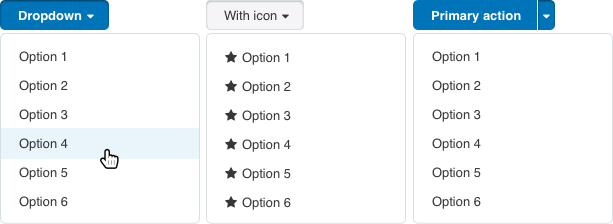
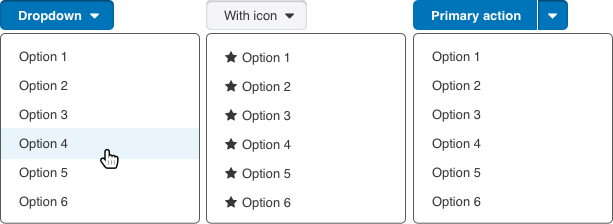
wip: second changes from Armando's feedback

Changed region(s): [[0.0, 0.0, 1.0, 1.0], [0.4649, 0.0312, 0.4959, 0.0938]]

diff --git a/index.html b/index.html
@@ -273,10 +273,10 @@
 
 			<h4>Dropdown buttons</h4>
 			<div style="margin: 40px 0px">
-				  <span class="button primary-button">Dropdown<i class="fa fa-caret-down fa-fw" aria-hidden="true" style="margin-left: 5px; margin-right: 0px"></i></span>
-				  <span class="button neutral-button">With Icons<i class="fa fa-caret-down fa-fw" aria-hidden="true" style="margin-left: 5px; margin-right: 0px"></i></span>
+				  <span class="button primary-button">Dropdown<i class="fa fa-caret-down fa-fw" aria-hidden="true" style="margin-left: 5px; margin-right: 0px; font-size: 16px; vertical-align: middle"></i></span>
+				  <span class="button neutral-button">With Icons<i class="fa fa-caret-down fa-fw" aria-hidden="true" style="margin-left: 5px; margin-right: 0px; font-size: 16px; vertical-align: middle"></i></span>
 					<span class="primary-action primary-button">Primary action</span>
-					<span class="secondary-action primary-button"><i class="fa fa-caret-down fa-fw" aria-hidden="true"></i></span><br />
+					<span class="secondary-action primary-button"><i class="fa fa-caret-down fa-fw" aria-hidden="true" style="font-size: 16px; vertical-align: middle"></i></span><br />
 				<img src="imgs/dropdown-buttons.png" style="margin-top: 40px"/>
 			</div>
 
@@ -290,6 +290,7 @@
 				<span><b>Margin:</b> 15px 5px</span><br />
 				<span><b>Border radius:</b> 5px</span><br />
 				<span><b>Icon:</b> caret-down</span><br />
+				<span><b>Icon size:</b> 16px</span><br />
 				<span><b>Margin left (Icon):</b> 5px</span><br />
 				<span><b>Margin (between button and dropdown):</b> 3px</span><br />
 				<span><b>Background color (hover):</b> Cloud</span>
@@ -316,7 +317,7 @@
 				</label>
 				<label class="container" style="color: #D7DFE1; pointer-events: none">Disabled
 				  <input type="radio" name="radio">
-				  <span class="checkmark" style="background-color: #D7DFE1;  border-color: #D7DFE1"></span>
+				  <span class="checkmark" style="background-color: #D7DFE1;  border-color: #595959"></span>
 				</label>
 			</div>
 
@@ -348,7 +349,7 @@
 				</label>
 				<label class="containerC" style="color: #D7DFE1; pointer-events: none">Disabled
 				  <input type="checkbox">
-				  <span class="checkmarkC" style="background-color: #D7DFE1; border-color: #D7DFE1"></span>
+				  <span class="checkmarkC" style="background-color: #D7DFE1; border-color: #595959"></span>
 				</label>
 			</div>
 
@@ -385,7 +386,7 @@
 				<span class="switch-label" style="color: #D7DFE1; pointer-events: none">Disabled</span>
 				<label class="switch" style="pointer-events: none">
 				  <input type="checkbox">
-				  <span class="dslider round" style="color: #D7DFE1; border-color: #D7DFE1"></span>
+				  <span class="dslider round" style="color: #D7DFE1; border-color: #595959"></span>
 				</label>
 			</div>
 
@@ -407,13 +408,15 @@
 
 			<h4>Icon buttons</h4>
 			<div style="margin: 40px 0px">
-				<div class="ttooltip"><i class="fa fa-star fa-fw" aria-hidden="true" style="color: #373737; margin-right: 10px; border: 1px solid #D7DFE1; padding: 9px; border-radius: 5px; cursor: pointer"></i>
+				<div class="ttooltip"><i class="fa fa-star fa-fw" aria-hidden="true" style="color: #373737; background-color: #F5F5F7; margin-right: 10px; border: 1px solid #D7DFE1; padding: 6px; border-radius: 5px; cursor: pointer; font-size: 16px; vertical-align: middle"></i>
 					<span class="tooltiptext">Tooltip text</span>
 				</div>
-				<div class="ttooltip"><i class="fa fa-envelope fa-fw" aria-hidden="true" style="color: #373737; margin-right: 10px; border: 1px solid #D7DFE1; padding: 9px; border-radius: 5px; cursor: pointer"></i>
+				<div class="ttooltip"><i class="fa fa-envelope fa-fw" aria-hidden="true" style="color: #373737; background-color: #F5F5F7; margin-right: 10px; border: 1px solid #D7DFE1; padding: 6px; border-radius: 5px; cursor: pointer; font-size: 16px; vertical-align: middle"></i>
 					<span class="tooltiptext">Tooltip text</span>
 				</div>
-				<i class="fa fa-trash fa-fw" aria-hidden="true" style="color: #D7DFE1; border: 1px solid #D7DFE1; padding: 9px; border-radius: 5px"></i><br />
+				<div class="ttooltip"><i class="fa fa-trash fa-fw" aria-hidden="true" style="color: #373737; background-color: #F5F5F7; margin-right: 10px; border: 1px solid #D7DFE1; padding: 6px; border-radius: 5px; cursor: pointer; font-size: 16px; vertical-align: middle"></i>
+					<span class="tooltiptext">Tooltip text</span>
+				</div><br />
 				<img src="imgs/icon-btn-group.png" style="margin-top: 20px"/><br />
 				<img src="imgs/dropdown-icon-button.png" style="margin-top: 20px"/>
 			</div>
@@ -422,7 +425,7 @@
 			They will be always accompanied by tooltips for novice users. Also they can display more options (similar to dropdown buttons).</p>
 
 			<div class="measurements-box"><p style="padding-bottom: 20px;">
-				<span><b>Width:</b> 30px</span><br />
+				<span><b>Width:</b> 34px</span><br />
 				<span><b>Height:</b> 30px</span><br />
 				<span><b>Font size:</b> 13px</span><br />
 				<span><b>Color:</b> Text</span><br />
@@ -445,9 +448,9 @@
 
 			<h4>Buttons with icons</h4>
 			<div style="margin: 40px 0px">
-				<span class="button primary-button"><i class="fa fa-star fa-fw" aria-hidden="true"></i>Button</span>
-				<span class="button neutral-button"><i class="fa fa-star fa-fw" aria-hidden="true"></i>Button</span>
-				<span class="button destructive-button"><i class="fa fa-star fa-fw" aria-hidden="true"></i>Button</span>
+				<span class="button primary-button"><i class="fa fa-star fa-fw" aria-hidden="true" style="font-size: 16px; vertical-align: middle"></i>Button</span>
+				<span class="button neutral-button"><i class="fa fa-star fa-fw" aria-hidden="true" style="font-size: 16px; vertical-align: middle"></i>Button</span>
+				<span class="button destructive-button"><i class="fa fa-star fa-fw" aria-hidden="true" style="font-size: 16px; vertical-align: middle"></i>Button</span>
 			</div>
 
 			<p><i>Buttons with icons</i> are going to be used to emphasize the action it represents.</p>
@@ -494,9 +497,9 @@
 			<h4>Outline Buttons</h4>
 			<div style="margin: 40px 0px">
 				<span class="button-outline primary-button-outline">Button</span>
-				<span class="button-outline primary-button-outline"><i class="fa fa-star fa-fw" aria-hidden="true"></i>Button</span>
+				<span class="button-outline primary-button-outline"><i class="fa fa-star fa-fw" aria-hidden="true" style="font-size: 16px; vertical-align: middle"></i>Button</span>
 				<span class="button-outline destructive-button-outline">Button</span>
-				<span class="button-outline destructive-button-outline"><i class="fa fa-star fa-fw" aria-hidden="true"></i>Button</span>
+				<span class="button-outline destructive-button-outline"><i class="fa fa-star fa-fw" aria-hidden="true" style="font-size: 16px; vertical-align: middle"></i>Button</span>
 			</div>
 
 			<p><i>Outline buttons</i> are built only for corner cases. Icons are also allowed in this type of buttons.<br />
@@ -513,7 +516,7 @@
 			<div class="use-cases">
 				<h4>Use Cases</h4>
 				<ul>
-					<li>Corner cases (attachment inout).</li>
+					<li>Corner cases (attachment input).</li>
 				</ul>
 			</div>
 
@@ -547,15 +550,15 @@
 			<div style="margin: 40px 0px">
 				<span class="button primary-button">Active</span>
 				<span class="button primary-button-disabled">Disable</span>
-				<span class="button primary-button"><i class="fa fa-spinner fa-spin fa-fw" aria-hidden="true"></i>Loading</span>
+				<span class="button primary-button"><i class="fa fa-spinner fa-spin fa-fw" aria-hidden="true" style="font-size: 16px; vertical-align: middle"></i>Loading</span>
 				<span class="button neutral-button">Active</span>
 				<span class="button neutral-button-disabled">Disable</span>
-				<span class="button neutral-button"><i class="fa fa-spinner fa-spin fa-fw" aria-hidden="true"></i>Loading</span>
+				<span class="button neutral-button"><i class="fa fa-spinner fa-spin fa-fw" aria-hidden="true" style="font-size: 16px; vertical-align: middle"></i>Loading</span>
 				<span class="button-link">Active</span>
 				<span class="button-link-disabled">Disable</span>
 				<span class="button destructive-button">Active</span>
 				<span class="button destructive-button-disabled">Disable</span>
-				<span class="button destructive-button"><i class="fa fa-spinner fa-spin fa-fw" aria-hidden="true"></i>Loading</span>
+				<span class="button destructive-button"><i class="fa fa-spinner fa-spin fa-fw" aria-hidden="true" style="font-size: 16px; vertical-align: middle"></i>Loading</span>
 		</div>
 
 		<p>There are three posible states: active, disable and loading.<br />
@@ -615,7 +618,7 @@
 			<h4>Number input</h4>
 			<div style="margin: 20px 0px; position: relative; z-index: 2">
 				<input type="text">
-				<i class="fa fa-sort fa-fw icon-inside-input" aria-hidden="true"></i>
+				<i class="fa fa-sort fa-fw icon-inside-input" aria-hidden="true" style="font-size: 16px; top: 9px"></i>
 			</div>
 
 			<div class="measurements-box"><p style="padding-bottom: 20px;">
@@ -637,7 +640,7 @@
 			<h4>Date input</h4>
 			<div style="margin: 20px 0px; position: relative; z-index: 2">
 				<input type="text" placeholder="dd/mm/yyyy">
-				<i class="fa fa-calendar fa-fw icon-inside-input" aria-hidden="true"></i>
+				<i class="fa fa-calendar fa-fw icon-inside-input" aria-hidden="true" style="font-size: 16px; top: 8px"></i>
 			</div>
 
 			<div class="measurements-box"><p style="padding-bottom: 20px;">
@@ -659,7 +662,7 @@
 			<h4>Time input</h4>
 			<div style="margin: 20px 0px; position: relative; z-index: 2">
 				<input type="text" placeholder="--:--">
-				<i class="fa fa-clock-o fa-fw icon-inside-input" aria-hidden="true"></i>
+				<i class="fa fa-clock-o fa-fw icon-inside-input" aria-hidden="true" style="font-size: 16px; top: 9px"></i>
 			</div>
 
 			<div class="measurements-box"><p style="padding-bottom: 20px;">
@@ -681,7 +684,7 @@
 			<h4>Password input</h4>
 			<div style="margin: 20px 0px; position: relative; z-index: 2">
 				<input type="password">
-				<i class="fa fa-eye fa-fw icon-inside-input" aria-hidden="true"></i>
+				<i class="fa fa-eye fa-fw icon-inside-input" aria-hidden="true" style="font-size: 16px; top: 9px"></i>
 			</div>
 
 			<p>The eye icon allow the user to check if the password is correct by showing the caracters.</p>
@@ -761,7 +764,7 @@
 
 			<h4>Input + Button</h4>
 			<div style="margin: 20px 0px; position: relative">
-				<input type="text" placeholder="Lorem ipsum" style="width: 268px">
+				<input type="text" placeholder="Lorem ipsum" style="width: 278px">
 				<span class="button primary-button" style="margin-left: 0px; position: absolute; left: 220px; top: -14px; border-radius: 0px 5px 5px 0px">Button</span>
 			</div>
 
@@ -784,7 +787,7 @@
 			<h4>Input + Icon (after)</h4>
 			<div style="margin: 20px 0px; display: inline-flex">
 				<input type="text" placeholder="Lorem ipsum" style="margin-right: 10px">
-				<div class="ttooltip"><i class="fa fa-plus fa-fw" aria-hidden="true" style="color: #373737; margin-right: 10px; border: 1px solid #D7DFE1; padding: 10px; border-radius: 5px; cursor: pointer"></i>
+				<div class="ttooltip"><i class="fa fa-plus fa-fw" aria-hidden="true" style="color: #373737; margin-right: 10px; border: 1px solid #D7DFE1; background-color: #F5F5F7; font-size: 16px; padding: 8px; border-radius: 5px; cursor: pointer"></i>
 					<span class="tooltiptext">Tooltip text</span>
 				</div>
 			</div>
@@ -809,21 +812,21 @@
 			<span style="display: flex; flex-direction: row">
 				<div style="margin: 20px 0px; position: relative; z-index: 2; margin-right: 10px">
 					<input type="text" placeholder="From">
-					<i class="fa fa-calendar fa-fw icon-inside-input" aria-hidden="true"></i>
+					<i class="fa fa-calendar fa-fw icon-inside-input" aria-hidden="true" style="font-size: 16px; top: 8px"></i>
 				</div>
 				<div style="margin: 20px 0px; position: relative; z-index: 2">
 					<input type="text" placeholder="To">
-					<i class="fa fa-calendar fa-fw icon-inside-input" aria-hidden="true"></i>
+					<i class="fa fa-calendar fa-fw icon-inside-input" aria-hidden="true" style="font-size: 16px; top: 8px"></i>
 				</div>
 			</span>
 			<span style="display: flex; flex-direction: row">
 				<div style="margin: 20px 0px; position: relative; z-index: 2; margin-right: 10px">
 					<input type="text" placeholder="From">
-					<i class="fa fa-clock-o fa-fw icon-inside-input" aria-hidden="true"></i>
+					<i class="fa fa-clock-o fa-fw icon-inside-input" aria-hidden="true" style="font-size: 16px; top: 8px"></i>
 				</div>
 				<div style="margin: 20px 0px; position: relative; z-index: 2">
 					<input type="text" placeholder="To">
-					<i class="fa fa-clock-o fa-fw icon-inside-input" aria-hidden="true"></i>
+					<i class="fa fa-clock-o fa-fw icon-inside-input" aria-hidden="true" style="font-size: 16px; top: 8px"></i>
 				</div>
 			</span>
 
@@ -914,9 +917,9 @@
 
 			<h4>Help</h4>
 			<div style="margin: 20px 0px">
-				<input type="text" placeholder="Lorem ipsum" style="width: 400px"><br />
+				<input type="text" placeholder="Lorem ipsum" style="width: 400px; margin-bottom: 5px"><br />
 				<span style="display: flex; flex-direction: row; justify-content: flex-start; align-items: baseline">
-					<i class="fa fa-info-circle fa-fw" aria-hidden="true" style="color: #373737"></i>
+					<i class="fa fa-info-circle fa-fw" aria-hidden="true" style="color: #373737; font-size: 16px"></i>
 					<p class="help-input">Help goes here</p>
 				</span>
 			</div>
@@ -941,11 +944,11 @@
 			<h4>Validation Feedback</h4>
 			<div style="margin: 20px 5px; position: relative; z-index: 2">
 				<input type="text" value="Correct" style="width: 390px; padding-left: 10px">
-				<i class="fa fa-check-circle fa-fw icon-inside-input" aria-hidden="true" style="color: #009632; left: 380px"></i>
+				<i class="fa fa-check-circle fa-fw icon-inside-input" aria-hidden="true" style="color: #009632; left: 370px; font-size: 16px; top: 8px"></i>
 			</div>
 			<div style="margin: 20px 5px; position: relative; z-index: 2">
 				<input type="text" value="Incorrect" style="width: 390px; border-color: #CC3300; padding-left: 10px">
-				<i class="fa fa-times-circle fa-fw icon-inside-input" aria-hidden="true" style="color: #CC3300; left: 380px"></i>
+				<i class="fa fa-times-circle fa-fw icon-inside-input" aria-hidden="true" style="color: #CC3300; left: 370px; font-size: 16px; top: 8px"></i>
 				<p class="validation-wrong-input">Reason goes here</p>
 			</div>
 
@@ -978,8 +981,8 @@
 
 				<h4>Search</h4>
 				<div style="margin: 20px 5px; position: relative; z-index: 2">
-					<input type="text" style="width: 200px">
-					<i class="fa fa-search fa-fw icon-inside-input" aria-hidden="true" style="left: 5px"></i><p style="position: absolute; left: 25px; top: 7px; color: #D7DFE1; font-size: 11px">Search by...</p>
+					<input type="text" style="width: 190px">
+					<i class="fa fa-search fa-fw icon-inside-input" aria-hidden="true" style="left: 5px; font-size: 16px; top: 8px"></i><p style="position: absolute; left: 30px; top: 7px; color: #0074B8; font-size: 11px; font-style: italic">Search by...</p>
 				</div>
 
 				<p><i>Search</i> input will help the user find specific data.<br />
@@ -1001,8 +1004,8 @@
 
 				<h4>Filter</h4>
 				<div style="margin: 20px 5px; position: relative; z-index: 2">
-					<input type="text" style="width: 200px">
-					<i class="fa fa-filter fa-fw icon-inside-input" aria-hidden="true" style="left: 5px"></i><p style="position: absolute; left: 25px; top: 7px; color: #D7DFE1; font-size: 11px">Filter by...</p><br />
+					<input type="text" style="width: 190px">
+					<i class="fa fa-filter fa-fw icon-inside-input" aria-hidden="true" style="left: 5px; font-size: 16px; top: 8px"></i><p style="position: absolute; left: 30px; top: 7px; color: #0074B8; font-size: 11px; font-style: italic">Filter by...</p><br />
 					<img src="imgs/dropdown-filter.png" style="margin-top: 20px"/>
 				</div>
 
@@ -1029,19 +1032,19 @@
 				<span style="display: flex; flex-direction: row">
 					<div style="margin: 20px 5px; position: relative; z-index: 2">
 						<input type="text">
-						<i class="fa fa-search fa-fw icon-inside-input" aria-hidden="true" style="left: 5px"></i><p style="position: absolute; left: 25px; top: 7px; color: #D7DFE1; font-size: 11px">Active search</p>
+						<i class="fa fa-search fa-fw icon-inside-input" aria-hidden="true" style="left: 5px; font-size: 16px; top: 8px"></i><p style="position: absolute; left: 30px; top: 7px; color: #0074B8; font-size: 11px; font-style: italic">Active search</p>
 					</div>
 					<div style="margin: 20px 5px; position: relative; z-index: 2">
 						<input type="text">
-						<i class="fa fa-spinner fa-spin fa-fw icon-inside-input" aria-hidden="true" style="left: 5px"></i><p style="position: absolute; left: 25px; top: 7px; color: #373737; font-size: 11px">Loading search</p>
+						<i class="fa fa-spinner fa-spin fa-fw icon-inside-input" aria-hidden="true" style="left: 5px; font-size: 16px; top: 8px"></i><p style="position: absolute; left: 30px; top: 7px; color: #373737; font-size: 11px">Loading search</p>
 					</div>
 					<div style="margin: 20px 5px; position: relative; z-index: 2">
 						<input type="text">
-						<i class="fa fa-filter fa-fw icon-inside-input" aria-hidden="true" style="left: 5px"></i><p style="position: absolute; left: 25px; top: 7px; color: #D7DFE1; font-size: 11px">Active filter</p>
+						<i class="fa fa-filter fa-fw icon-inside-input" aria-hidden="true" style="left: 5px; font-size: 16px; top: 8px"></i><p style="position: absolute; left: 30px; top: 7px; color: #0074B8; font-size: 11px; font-style: italic">Active filter</p>
 					</div>
 					<div style="margin: 20px 5px; position: relative; z-index: 2">
 						<input type="text">
-						<i class="fa fa-spinner fa-spin fa-fw icon-inside-input" aria-hidden="true" style="left: 5px"></i><p style="position: absolute; left: 25px; top: 7px; color: #373737; font-size: 11px">Loading filter</p>
+						<i class="fa fa-spinner fa-spin fa-fw icon-inside-input" aria-hidden="true" style="left: 5px; font-size: 16px; top: 8px"></i><p style="position: absolute; left: 30px; top: 7px; color: #373737; font-size: 11px">Loading filter</p>
 					</div>
 				</span>
 
@@ -1072,16 +1075,16 @@
 				<h2><a id="tooltipanchor" style="text-decoration:none; color:#373737">Tooltips</a></h3>
 					<h3 style="opacity: 0.5">Tooltips help users understand unknown or unfamiliar objects in the UI.</h2>
 
-						<div class="ltooltip"><i class="fa fa-info-circle fa-fw" aria-hidden="true" style="color: #373737; margin-right: 10px"></i>
+						<div class="ltooltip"><i class="fa fa-info-circle fa-fw" aria-hidden="true" style="color: #373737; margin-right: 10px; font-size: 16px"></i>
 						  <span class="tooltiptext">Tooltip text</span>
 						</div>
-						<div class="ttooltip"><i class="fa fa-info-circle fa-fw" aria-hidden="true" style="color: #373737; margin-right: 10px"></i>
+						<div class="ttooltip"><i class="fa fa-info-circle fa-fw" aria-hidden="true" style="color: #373737; margin-right: 10px; font-size: 16px"></i>
 						  <span class="tooltiptext">Tooltip text</span>
 						</div>
-						<div class="btooltip"><i class="fa fa-info-circle fa-fw" aria-hidden="true" style="color: #373737; margin-right: 10px"></i>
+						<div class="btooltip"><i class="fa fa-info-circle fa-fw" aria-hidden="true" style="color: #373737; margin-right: 10px; font-size: 16px"></i>
 						  <span class="tooltiptext">Tooltip text</span>
 						</div>
-						<div class="rtooltip"><i class="fa fa-info-circle fa-fw" aria-hidden="true" style="color: #373737"></i>
+						<div class="rtooltip"><i class="fa fa-info-circle fa-fw" aria-hidden="true" style="color: #373737; font-size: 16px"></i>
 						  <span class="tooltiptext">Tooltip text</span>
 						</div>
 
@@ -1181,7 +1184,7 @@
 								<div class="use-cases">
 									<h4>Use Cases</h4>
 									<ul>
-										<li>To show related information alltogether (sign off, certificates, hazards).</li>
+										<li>To show related information all together (sign off, certificates, hazards).</li>
 									</ul>
 								</div>
 
@@ -1262,7 +1265,7 @@
 								<div class="measurements-box"><p style="padding-bottom: 20px">
 									<span><b>Margin (between Back/Next and pages numbers):</b> 20px.</span><br />
 									<span><b>Padding (selected page):</b> 5px 10px.</span><br />
-									<span><b>Background color (selected page):</b> Interaction (#0074B8).</span><br />
+									<span><b>Background color (selected page):</b> Interaction.</span><br />
 									<span><b>Icons:</b> chevron-left & chevron-right</span>
 								</div>
 

diff --git a/styles.css b/styles.css
@@ -617,7 +617,7 @@ footer p a:hover { color:#333; border-bottom-color: #333; }
     height: 15px;
     width: 15px;
     background-color: #ffffff;
-		border: 1px solid #D7DFE1;
+		border: 1px solid #595959;
     border-radius: 50%;
 }
 
@@ -672,7 +672,7 @@ footer p a:hover { color:#333; border-bottom-color: #333; }
   height: 15px;
   width: 15px;
   background-color: #ffffff;
-	border: 1px solid #D7DFE1;
+	border: 1px solid #595959;
 	border-radius: 5px;
 }
 
@@ -725,7 +725,7 @@ footer p a:hover { color:#333; border-bottom-color: #333; }
   right: 0;
   bottom: 0;
   background-color: #D7DFE1;
-	border: 1px solid #D7DFE1;
+	border: 1px solid #595959;
   -webkit-transition: .4s;
   transition: .4s;
 }
@@ -781,8 +781,8 @@ input:checked + .slider:before {
 .dslider:before {
   position: absolute;
   content: "";
-  height: 13px;
-  width: 13px;
+  height: 1px;
+  width: 1px;
   left: 0px;
   bottom: 0px;
   background-color: #D7DFE1;
@@ -947,7 +947,7 @@ input:checked + .slider:before {
 input[type=text], input[type=number], input[type=date], input[type=time], input[type=password], textarea{
 	height: 30px;
 	width: 190px;
-	border: 1px solid #D7DFE1;
+	border: 1px solid #595959;
 	border-radius: 5px;
 	background-color: #ffffff;
 	padding-left: 10px;
@@ -962,16 +962,16 @@ input:focus, input[type=text]:focus, input[type=time]:focus, input[type=date]:fo
 }
 
 ::placeholder{
-	color: #D7DFE1;
+	color: #0074B8;
 	font-size: 11px;
+	font-style: italic;
 }
 
 .icon-inside-input{
 	position: absolute;
 	text-align: right;
 	z-index: 99;
-	top: 12px;
-	left: 180px;
+	left: 175px;
 	color: #0074B8;
 }
 
